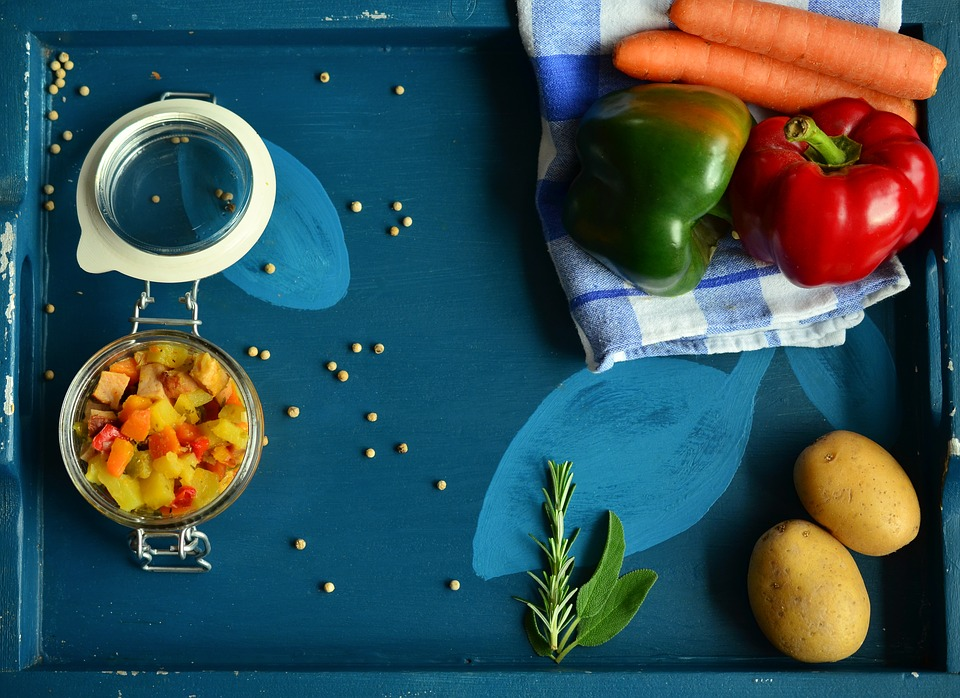
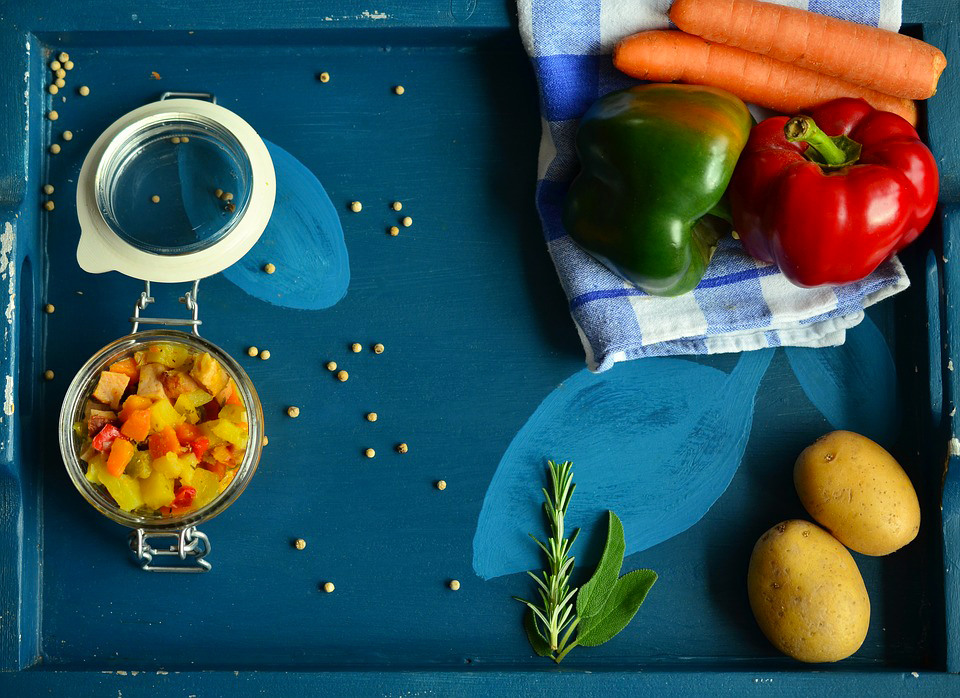
Reduced quality of images

diff --git a/main.css b/main.css
@@ -315,7 +315,7 @@ header h1 {text/javascript
 }
 
 #project-1 {
-    background-image: url("img/blog.jpg");
+    background-image: url("img/blog1.jpg");
 }
 
 #project-2 {
